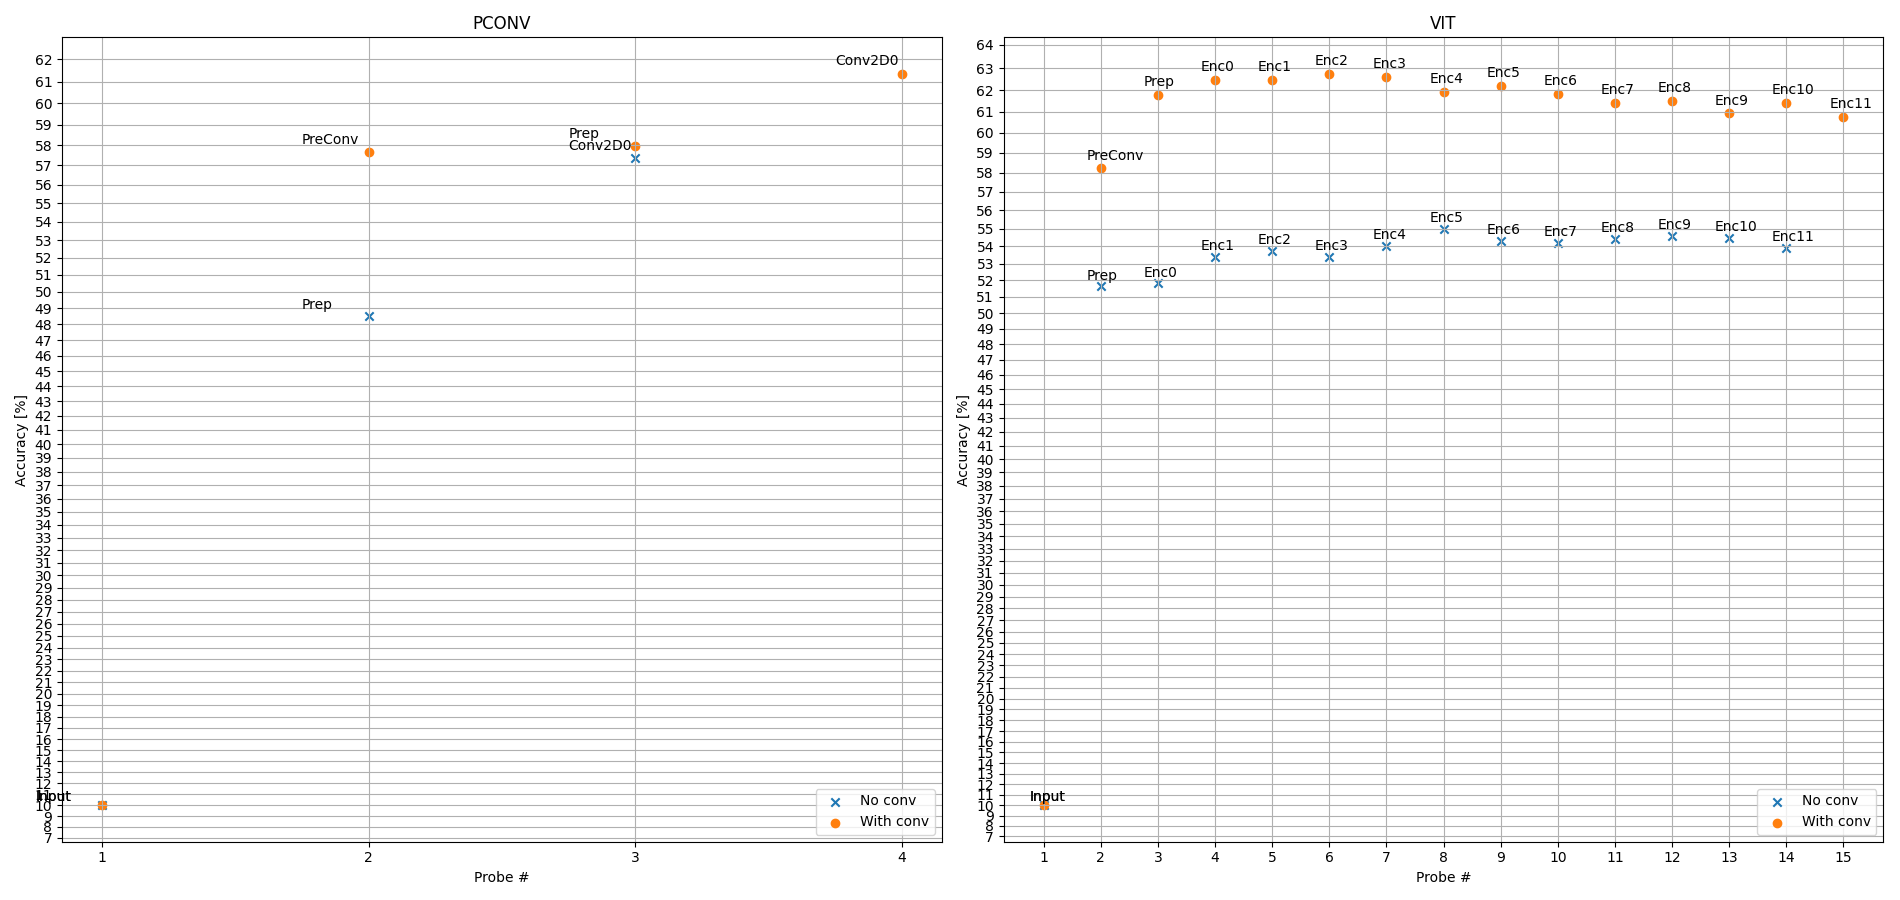
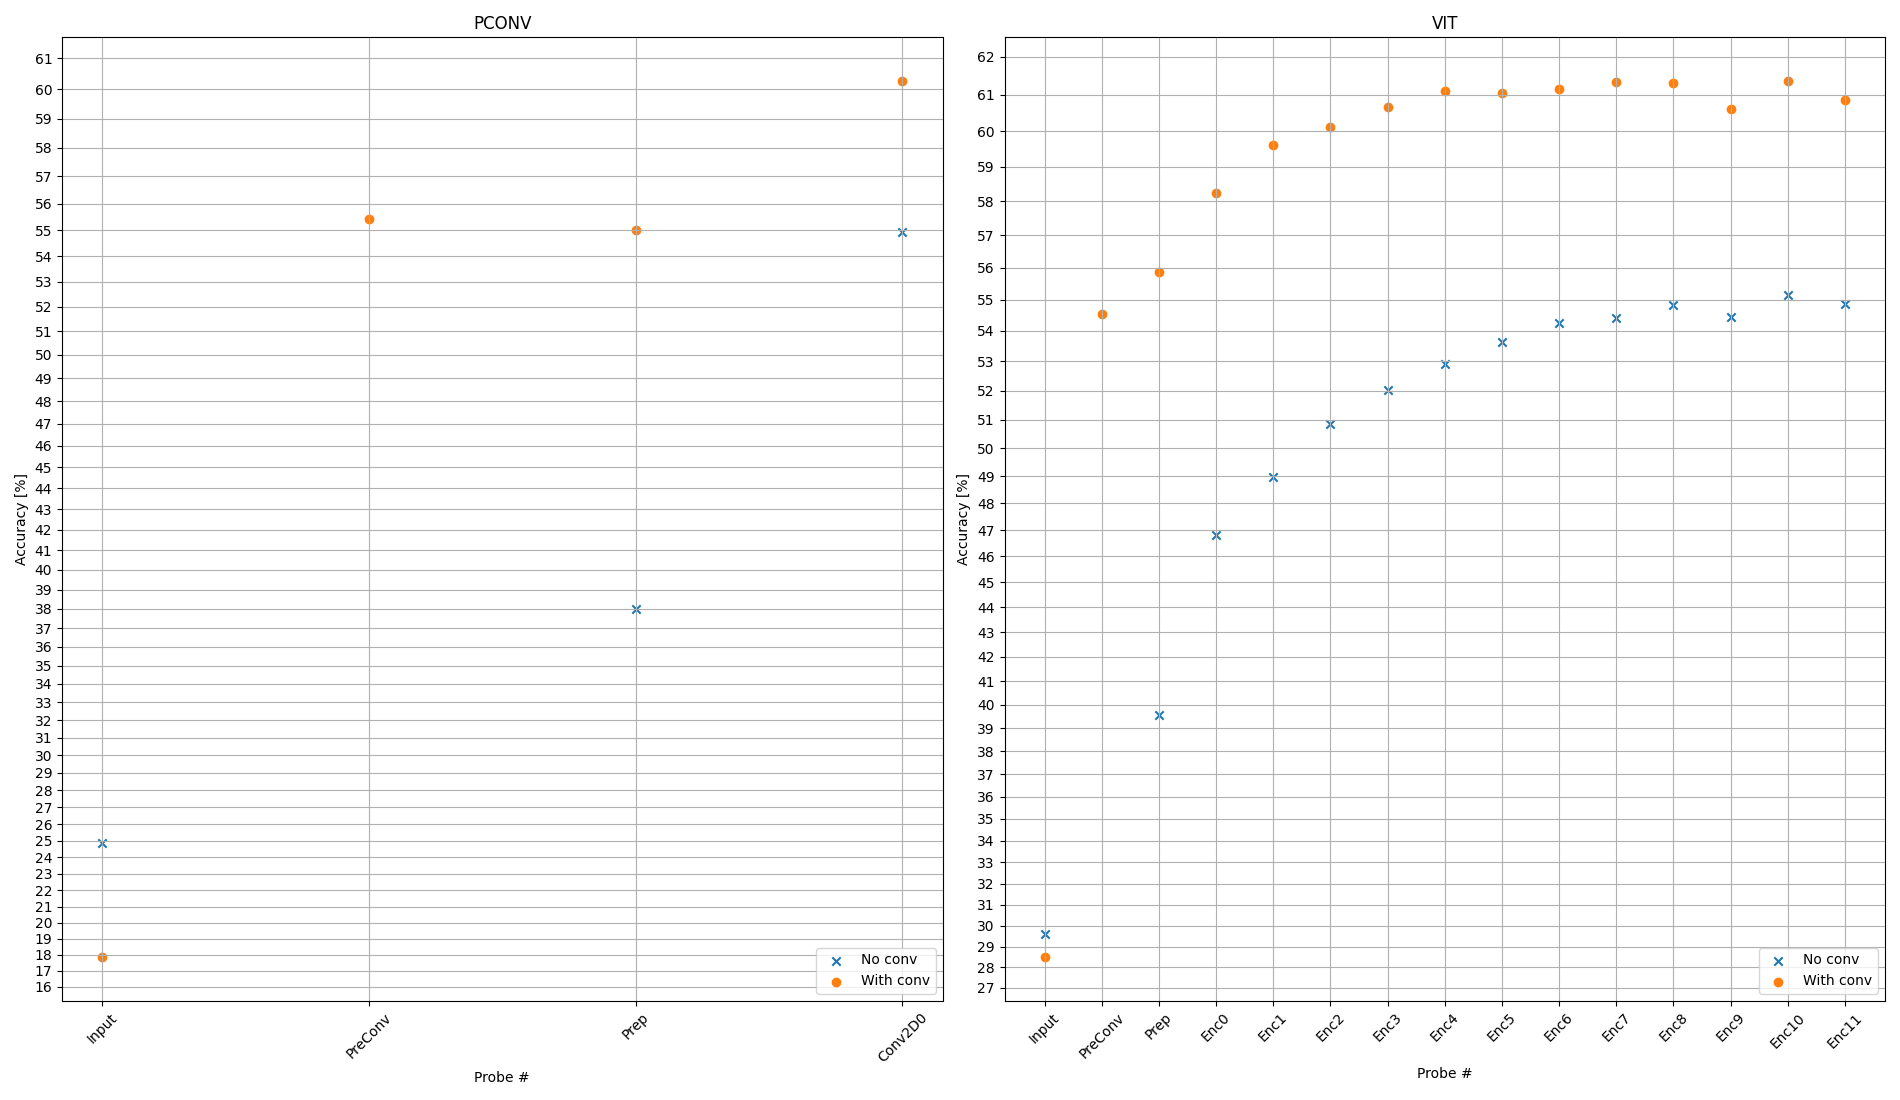
[STATUS: docker init] -> not optimized properly; [STATUS: comparison plot] -> ready

Changed region(s): [[0.0, 0.0, 0.9937, 0.9956], [0.2484, 0.9644, 0.2795, 0.9956]]

diff --git a/python/main_driver.py b/python/main_driver.py
@@ -31,7 +31,7 @@ ARGS = CLI_Parser()()
 
 #   ----- MODEL CONFIGURATIONS ----- #
 # training hyperparameters
-BATCH_SIZE = 1024
+BATCH_SIZE = 4096
 EPOCHS = 100
 
 # ViT hyperparameters
@@ -53,6 +53,7 @@ else:  # CIFAR-100
 
 #   ----- MODEL SETUP ----- #
 def vit_model(x_train, **kwargs) -> Model:
+    printWarning("ViT Model")
     extra_layer = None
     if kwargs["add_conv"]:
         extra_layer = Conv2D(
@@ -77,6 +78,7 @@ def vit_model(x_train, **kwargs) -> Model:
 
 
 def pconv_model(x_train, **kwargs) -> Model:
+    printWarning("PConv Model")
     extra_layer = None
     p_size = PATCH_SIZE + 1
     if kwargs["add_conv"]:
@@ -105,36 +107,37 @@ def train_model(*args, **kwargs) -> Tuple[History, List]:
     # get train/tests
     (train_data, train_labels), (test_data, test_labels) = DATA
 
-    # init models
-    model = getModel[kwargs["model_type"]](
-        x_train=train_data, add_conv=kwargs["add_conv"]
-    )
+    strat = tf.distribute.MirroredStrategy()
+    with strat.scope():
+        # init models
+        model = getModel[kwargs["model_type"]](
+            x_train=train_data, add_conv=kwargs["add_conv"]
+        )
 
-    # learning rate scheduler
-    lr_sched = PolynomialDecay(
-        power=tf.Variable(1),
-        initial_learning_rate=tf.Variable(8e-4),
-        decay_steps=tf.Variable(10000),
-    )
+        # learning rate scheduler
+        lr_sched = PolynomialDecay(
+            power=tf.Variable(1),
+            initial_learning_rate=tf.Variable(8e-4),
+            decay_steps=tf.Variable(10000),
+        )
 
-    # https://gist.github.com/yoshihikoueno/4ff0694339f88d579bb3d9b07e609122
-    # Adam optimizer
-    adam = Adam(
-        learning_rate=lr_sched,
-        beta_1=tf.Variable(0.9),
-        beta_2=tf.Variable(0.999),
-        epsilon=tf.Variable(1e-7),
-    )
-    call_ES = EarlyStopping(patience=tf.Variable(7))
+        # https://gist.github.com/yoshihikoueno/4ff0694339f88d579bb3d9b07e609122
+        # Adam optimizer
+        adam = Adam(
+            learning_rate=lr_sched,
+            beta_1=tf.Variable(0.9),
+            beta_2=tf.Variable(0.999),
+            epsilon=tf.Variable(1e-7),
+        )
+        call_ES = EarlyStopping(patience=tf.Variable(7))
 
-    # compile model (no conv)
-    model.compile(
-        optimizer=adam,
-        loss=tf.keras.losses.SparseCategoricalCrossentropy(from_logits=True),
-        metrics=["accuracy"],
-    )
-    model.build(input_shape=(32, 32, 3))
-    model.summary()
+        # compile model (no conv)
+        model.compile(
+            optimizer=adam,
+            loss=tf.keras.losses.SparseCategoricalCrossentropy(from_logits=True),
+            metrics=["accuracy"],
+        )   
+        model.summary_model()
 
     # fit
     H = model.fit(
@@ -164,17 +167,21 @@ def get_EncoderOutputs(add_conv, model_type):
     train, test = DATA
     addConv_str = "CONV" if add_conv else "NO-CONV"
     printWarning(f"{model_type} | {addConv_str} ~~~~~~~~~~~~~")
-    model = getModel[model_type](x_train=train[0], add_conv=add_conv)
+    strat = tf.distribute.MirroredStrategy()
+    with strat.scope():
+        model = getModel[model_type](x_train=train[0], add_conv=add_conv)
 
-    # get latest checkpoint weights for both model types
-    config = "conv" if add_conv else "std"
-    chkpt_dir = f"chkpt-{model_type}-{config}"
-    print(f"=== CHKPT DIR {chkpt_dir} ===")
-    latest = tf.train.latest_checkpoint(f"checkpoints/tf/{chkpt_dir}/")
-    model.load_weights(latest)
+        # get latest checkpoint weights for both model types
+        config = "conv" if add_conv else "std"
+        chkpt_dir = f"chkpt-{model_type}-{config}"
+        print(f"=== CHKPT DIR {chkpt_dir} ===")
+        latest = tf.train.latest_checkpoint(f"checkpoints/tf/{chkpt_dir}/")
+        model.load_weights(latest)
 
     # generate train dataset
-    model(train[0])
+    x_train = train[0]
+    print(x_train.shape)
+    model(x_train)
     x_train, y_train = model.outputs, train[1]
 
     # generate test dataset
@@ -200,7 +207,6 @@ def main() -> int:
         + " ====="
     )
     # override prompts with slurm inputs
-    choice, std_plot_name = ARGS.slurm.split()
     if ARGS.slurm == "":
         while True:
             choice = input("Train [vit/pconv] or [probes]? ").lower()
@@ -210,6 +216,8 @@ def main() -> int:
             printError("Invalid input sequence, try again!")
 
         std_plot_name = input("Provide name of plot: ")
+    else:
+        choice, std_plot_name = ARGS.slurm.split()
     
     if choice in getModel.keys():
         H_conv, conv_results = train_model(
@@ -223,13 +231,11 @@ def main() -> int:
         suptitle = f'{choice}: S_{PATCH_SIZE}-RES_{IMAGE_SIZE}'
         plot_diagnostics(H.history, H_conv.history, std_plot_name, suptitle)
         print(f"% diff: {100 * diff}")
-
     else:
         # init figure
-        fig = plt.figure(figsize=(19, 9))
+        fig = plt.figure(figsize=(19, 11))
         plt_shape = [1, 2, 1]
         
-        ax_init = None
         for m_type in ('pconv', 'vit'):
             # label preparation
             no_conv_labels = [
@@ -237,20 +243,18 @@ def main() -> int:
                 "Prep",
             ]
             conv_labels = ["Input", "PreConv", "Prep"]
-
             num_hidden = NUM_ENCODERS
             hidden_type = "Enc"
             if m_type == "pconv":
                 hidden_type = "Conv2D"
                 num_hidden = 1
+
             for i in range(num_hidden):
                 no_conv_labels.append(f"{hidden_type}{i}")
                 conv_labels.append(f"{hidden_type}{i}")
 
             # setup axes handler
             ax = fig.add_subplot(*plt_shape)
-            if m_type == 'vit':
-                ax = fig.add_subplot(*plt_shape, sharey=ax_init)
             ax.set_title(f"{m_type.upper()}")
             ax.set_xlabel("Probe #")
             ax.set_yscale("function", functions=(forward, inverse))
@@ -267,36 +271,19 @@ def main() -> int:
             ))
             
             # mercator y-axis scaling
-            # max_y = np.max([np.max(std_data["y"]), np.max(conv_data["y"])])
-            ax.yaxis.set_major_locator(FixedLocator(np.arange(0, 70) ** 2))
-            ax.yaxis.set_major_locator(FixedLocator(np.arange(0, 70)))
+            max_y = np.max([np.max(std_data["y"]), np.max(conv_data["y"])])
+            ax.yaxis.set_major_locator(FixedLocator(np.arange(0, max_y + 5) ** 2))
+            ax.yaxis.set_major_locator(FixedLocator(np.arange(0, max_y + 5)))
             ax.set_xticks(conv_data["x"])
+            ax.set_xticklabels(conv_labels, rotation=45)
 
             # plot probe data
             ax.scatter(std_data["x"], std_data["y"], marker="x", label="No conv")
             ax.scatter(conv_data["x"], conv_data["y"], marker="o", label="With conv")
             
-            # label points
-            for i, txt in enumerate(no_conv_labels):
-                x = std_data["x"][i]
-                y = std_data["y"][i]
-                offset = (-0.25, 0.4)
-                if m_type == 'pconv':
-                    offset = (0.1, -0.2)
-                ax.annotate(txt, (x, y), xytext=(x + offset[0], y + offset[1]))
-
-            for i, txt in enumerate(conv_labels):
-                x = conv_data["x"][i]
-                y = conv_data["y"][i]
-                offset = (-0.25, 0.4)
-                if m_type == 'pconv':
-                    offset = (0.1, -0.2)
-                ax.annotate(txt, (x, y), xytext=(x + offset[0], y + offset[1]))
-
             plt_shape = [1, 2, 2]
             ax.grid()
             ax.legend(loc="lower right")
-            ax_init = ax
 
         # tidy up plot
         plt.tight_layout()

diff --git a/python/vit_tf.py b/python/vit_tf.py
@@ -1,6 +1,7 @@
 import tensorflow as tf
 from tensorflow.keras import layers, Sequential, Model
 from tensorflow.keras.layers import (
+    Input,
     Dense,
     LayerNormalization,
     MultiHeadAttention,
@@ -22,12 +23,10 @@ def DataAugmentation(img_sz):
     return data_augmentation
 
 
-"""
-    Generate patches of size (PATCH_SIZE, PATCH_SIZE) per image
-"""
-
-
 class Patches(layers.Layer):
+    """
+    Generate patches of size (PATCH_SIZE, PATCH_SIZE) per image
+    """
     def __init__(self, patch_size):
         super(Patches, self).__init__()
         self.patch_size = patch_size
@@ -47,14 +46,12 @@ class Patches(layers.Layer):
         return patches
 
 
-"""
+class PatchEncoder(layers.Layer):
+    """
     1) Perform a linear projection of given patches onto a projection dimension
     2) Add a learnable class embedding to the patch embedding
     3) Combine the patch embedding and the position embedding
-"""
-
-
-class PatchEncoder(layers.Layer):
+    """
     def __init__(self, num_patches, projection_dims):
         super(PatchEncoder, self).__init__()
         self.projection_dims = projection_dims
@@ -136,6 +133,10 @@ class Encoder(layers.Layer):
 
 
 class VisionTransformer(Model):
+    """
+    References:
+    (1) https://github.com/keras-team/keras-io/blob/master/examples/vision/image_classification_with_vision_transformer.py
+    """
     def __init__(
         self,
         x_train,
@@ -149,6 +150,7 @@ class VisionTransformer(Model):
         test_layer=None,
     ):
         super(VisionTransformer, self).__init__()
+        self.img_sz = image_size
         self.DataAugmentation = DataAugmentation(image_size)
         self.DataAugmentation.layers[0].adapt(x_train)
         self.test_layer = test_layer
@@ -184,8 +186,7 @@ class VisionTransformer(Model):
         x = self.Head(x[:, 0])
         return x
 
-
-"""
-References:
-(1) https://github.com/keras-team/keras-io/blob/master/examples/vision/image_classification_with_vision_transformer.py
-"""
+    def summary_model(self):
+        inputs = Input(shape=(self.img_sz, self.img_sz, 3))
+        outputs = self.call(inputs)
+        Model(inputs=inputs, outputs=outputs, name="vit").summary()

diff --git a/python/train_probes.py b/python/train_probes.py
@@ -3,7 +3,7 @@ from tensorflow.keras.callbacks import EarlyStopping
 from tensorflow.keras.layers import Dense
 import numpy as np
 
-BATCH_SIZE = 32
+BATCH_SIZE = 1024
 
 # ----------Import data----------#
 """
@@ -34,7 +34,7 @@ def train_probes(data):
         # Try changing this (don't use sequential)
         # flatten: untrustworthy!
         probe = tf.keras.Sequential(
-            [Dense(128, activation="relu"), Dense(10, activation="softmax")]
+            [Dense(10, activation="softmax")]
         )
         probe_list.append(probe)
 
@@ -56,8 +56,8 @@ def train_probes(data):
             y_train,
             epochs=EPOCHS,
             batch_size=BATCH_SIZE,
-            steps_per_epoch=(0.9 * x_train[0].shape[0] // BATCH_SIZE),
-            validation_split=0.1,
+            steps_per_epoch=(0.8 * x_train[0].shape[0] // BATCH_SIZE),
+            validation_split=0.2,
             callbacks=[call_ES],
         )
         probe_num += 1
@@ -76,5 +76,12 @@ def train_probes(data):
     print("EVALUATION COMPLETED!")
 
     # ----------Print Results----------#
-    encoders = np.arange(1, NUM_PROBES + 1)
-    return {"x": encoders, "y": probe_accuracies}
+    x_vals = np.arange(1, NUM_PROBES + 1)
+    if NUM_PROBES == 3:
+        x_vals = np.arange(1, NUM_PROBES + 2)
+        x_vals = x_vals[x_vals != 2]
+    elif NUM_PROBES == 14: 
+        x_vals = np.arange(1, NUM_PROBES + 2)
+        x_vals = x_vals[x_vals != 2]
+
+    return {"x": x_vals, "y": probe_accuracies}

diff --git a/python/conv_tf.py b/python/conv_tf.py
@@ -32,6 +32,7 @@ class PatchConv(Model):
         test_layer=None,
     ):
         super(PatchConv, self).__init__()
+        self.img_sz = image_size
         self.DataAugmentation = DataAugmentation(image_size)
         self.DataAugmentation.layers[0].adapt(x_train)
         self.test_layer = test_layer
@@ -77,6 +78,6 @@ class PatchConv(Model):
         https://stackoverflow.com/questions/65365745/model-summary-output-is-not-consistent-with-model-definition
     '''
     def summary_model(self):
-        inputs = Input(shape=(32, 32, 3))
+        inputs = Input(shape=(self.img_sz, self.img_sz, 3))
         outputs = self.call(inputs)
         Model(inputs=inputs, outputs=outputs, name="pconv").summary()

diff --git a/python/CLI_parser.py b/python/CLI_parser.py
@@ -17,7 +17,7 @@ class CLI_Parser(object):
             "--kahan", type=bool, required=False, default=True, help="add probes"
         )
         parser.add_argument(
-            "--slurm", type=str, required=False, default="probes", help="setup for slurm job"
+            "--slurm", type=str, required=False, default="", help="setup for slurm job"
         )
         self.args = parser.parse_args()
 
